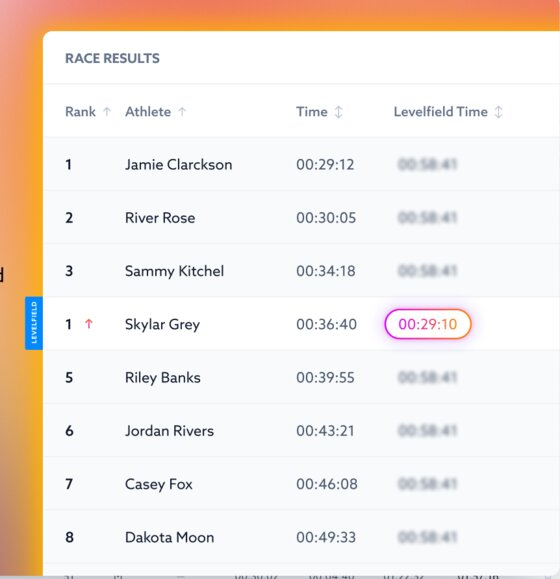
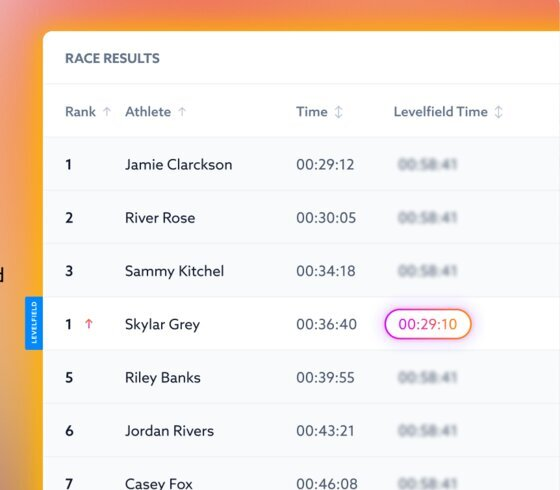
Email 02 image crop fix, Email 04 subtext removed, Email 05 rewritten LevelField-only (no TriDot)

diff --git a/levelfield/email-05-tridot-final.html b/levelfield/email-05-tridot-final.html
@@ -3,7 +3,7 @@
 <head>
 <meta charset="UTF-8" />
 <meta name="viewport" content="width=device-width, initial-scale=1.0"/>
-<title>What If Your Training Was as Smart as Your Results?</title>
+<title>Your Next Race Has a New Baseline</title>
 <style>
   body { margin: 0; padding: 0; background-color: #F0F4F8; font-family: 'Open Sans', Arial, sans-serif; }
   .wrapper { max-width: 620px; margin: 0 auto; background: #ffffff; }
@@ -22,18 +22,13 @@
   .recap-icon { font-size: 24px; display: block; margin: 0 0 8px; }
   .recap-label { font-size: 12px; font-weight: 700; color: #1DB954; letter-spacing: 1px; text-transform: uppercase; display: block; margin: 0 0 4px; }
   .recap-text { font-size: 12px; color: #64748B; line-height: 1.5; }
-  .bridge-question { font-size: 20px; color: #0C1B33; font-weight: 700; text-align: center; margin: 32px 0; line-height: 1.35; padding: 0 12px; }
-  .tridot-intro { background: linear-gradient(135deg, #0C1B33 0%, #0a2d5e 100%); border-radius: 10px; padding: 32px; margin: 32px 0; }
-  .tridot-intro .eyebrow { color: #1DB954; font-size: 11px; font-weight: 700; letter-spacing: 2px; text-transform: uppercase; margin: 0 0 10px; }
-  .tridot-intro h2 { color: #ffffff; font-size: 22px; font-weight: 700; line-height: 1.3; margin: 0 0 14px; }
-  .tridot-intro p { color: #B0C0D8; font-size: 14px; line-height: 1.65; margin: 0 0 14px; }
-  .tridot-intro p:last-child { margin: 0; }
-  .screenshot-placeholder { background: #F0F4F8; border: 2px dashed #CBD5E1; border-radius: 8px; padding: 52px 24px; text-align: center; margin: 28px 0; }
-  .screenshot-placeholder p { color: #94A3B8; font-size: 13px; font-weight: 600; letter-spacing: 1px; text-transform: uppercase; margin: 0 0 6px; }
-  .screenshot-placeholder span { color: #CBD5E1; font-size: 12px; }
+  .highlight-box { background: linear-gradient(135deg, #0C1B33 0%, #0a2d5e 100%); border-radius: 10px; padding: 32px; margin: 32px 0; }
+  .highlight-box .eyebrow { color: #1DB954; font-size: 11px; font-weight: 700; letter-spacing: 2px; text-transform: uppercase; margin: 0 0 10px; }
+  .highlight-box h2 { color: #ffffff; font-size: 22px; font-weight: 700; line-height: 1.3; margin: 0 0 14px; }
+  .highlight-box p { color: #B0C0D8; font-size: 14px; line-height: 1.65; margin: 0 0 14px; }
+  .highlight-box p:last-child { margin: 0; }
   .cta-wrap { text-align: center; margin: 32px 0; }
   .cta-btn { display: inline-block; background-color: #1DB954; color: #ffffff; font-size: 15px; font-weight: 700; text-decoration: none; padding: 16px 36px; border-radius: 6px; letter-spacing: 0.5px; }
-  .cta-subtext { font-size: 13px; color: #94A3B8; margin: 10px 0 0; }
   .section-divider { border: none; border-top: 1px solid #E2E8F0; margin: 32px 0; }
   .footer { background: #0C1B33; padding: 28px 40px; text-align: center; }
   .footer p { color: #64748B; font-size: 12px; line-height: 1.6; margin: 0 0 6px; }
@@ -63,15 +58,18 @@
 
   <!-- Hero -->
   <div class="hero">
-    <p class="hero-eyebrow">What's Next</p>
-    <h1>What if your training was as smart as your results?</h1>
-    <p>Two weeks ago you claimed your LevelField Time. Here's what that's been building toward.</p>
+    <p class="hero-eyebrow">Day 14</p>
+    <h1>Your next race has a new baseline.</h1>
+    <p>You've spent two weeks seeing your performance clearly. That changes everything about what comes next.</p>
   </div>
 
   <!-- Content -->
   <div class="content">
     <p class="body-copy">
-      Over the past two weeks, you've seen what FitLogic can do with your results. You've seen a leveled, honest picture of your performance - one that accounts for age, gender, environment, and physics. Not shortcuts. Not factors. A model.
+      Two weeks ago you entered a finish time. What came back wasn't a ranking — it was a real picture of what you actually did on that course, on that day, accounting for everything that was working against you or for you.
+    </p>
+    <p class="body-copy">
+      Most athletes spend years racing without ever knowing that number. You have it. And now it's your baseline.
     </p>
 
     <!-- Recap row -->
@@ -79,49 +77,38 @@
       <div class="recap-cell">
         <span class="recap-icon">⚖</span>
         <span class="recap-label">Leveled</span>
-        <span class="recap-text">Your result, normalized for age, gender, and conditions</span>
+        <span class="recap-text">Normalized for age, gender, and course conditions</span>
       </div>
       <div class="recap-cell">
         <span class="recap-icon">🧬</span>
         <span class="recap-label">Modeled</span>
-        <span class="recap-text">Physics and physiology, not formulas and factors</span>
+        <span class="recap-text">Physics and physiology, not estimates and averages</span>
       </div>
       <div class="recap-cell">
         <span class="recap-icon">📈</span>
-        <span class="recap-label">Tracked</span>
-        <span class="recap-text">Your performance over time, honestly measured</span>
+        <span class="recap-label">Yours</span>
+        <span class="recap-text">An honest record of where your fitness actually is</span>
       </div>
     </div>
 
     <p class="body-copy">
-      That's what FitLogic knows about where you've been. The natural question - the one every athlete eventually asks after they've seen their real results - is this:
+      When you line up at your next race, you'll know exactly what you're trying to beat. Not the clock. Your LevelField Time. That's the only number that tells you whether you actually got faster.
     </p>
 
-    <p class="bridge-question">"If FitLogic can measure my performance this precisely... can it help me improve it?"</p>
-
-    <p class="body-copy">
-      Yes. And that's actually what FitLogic was originally built to do.
-    </p>
-
-    <p class="body-copy">
-      LevelField came from applying 20+ years of performance intelligence to race results. TriDot&reg; applies that same intelligence to training - prescribing the right workout, at the right intensity, at the right time. Not a generic plan. Not a philosophy. The same engine, now pointed at making you faster.
-    </p>
-
-    <!-- TriDot intro box -->
-    <div class="tridot-intro">
-      <p class="eyebrow">Meet TriDot&reg;</p>
-      <h2>The training platform built on the same engine as LevelField.</h2>
-      <p>TriDot uses FitLogic to assess your true performance ability across swim, bike, and run - then prescribes exactly the right training for your physiology, your fitness level, and your race goals. It adjusts for your environment, your fatigue, and your progress in real time.</p>
-      <p>Same model. Now applied to your training.</p>
+    <!-- Highlight box -->
+    <div class="highlight-box">
+      <p class="eyebrow">Add your next race</p>
+      <h2>Every race you log makes the picture sharper.</h2>
+      <p>FitLogic builds a performance profile across every result you enter. The more races you add, the more clearly you can see where you're improving, where you're leaving time on the table, and which discipline is holding your ranking back.</p>
+      <p>One race is a snapshot. Multiple races are a story.</p>
     </div>
 
     <p class="body-copy">
-      You don't have to chase a faster time. But if you've ever wanted to know what your best is actually capable of, FitLogic already has a head start on the answer. TriDot is where that answer gets built.
+      Head back into LevelField, add your next event, and give FitLogic more to work with. Your leaderboard is waiting.
     </p>
 
     <div class="cta-wrap">
-      <a href="https://tridot.com/" class="cta-btn">See How FitLogic Powers Training</a>
-      <p class="cta-subtext">Subscription plans for every level &nbsp;·&nbsp; Cancel anytime</p>
+      <a href="https://www.levelfieldresults.com" class="cta-btn">Add Your Next Race</a>
     </div>
 
     <hr class="section-divider" />

diff --git a/levelfield/email-04-tridot-intro.html b/levelfield/email-04-tridot-intro.html
@@ -100,7 +100,7 @@
 
     <div class="cta-wrap">
       <a href="https://www.levelfieldresults.com/results" class="cta-btn">Explore My Results Dashboard</a>
-      <p class="cta-subtext">Subscription plans for every level &nbsp;·&nbsp; Cancel anytime</p>
+
     </div>
 
     <!-- Teaser -->
